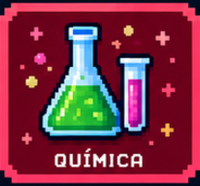
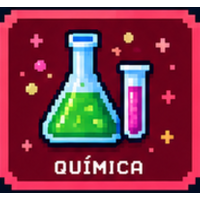
Agregar icono de cultura y normalizar iconos existentes a lienzos cuadrados de 200x200 píxeles; actualizar documentación de reglas de iconos.

diff --git a/admin.php b/admin.php
@@ -454,7 +454,6 @@ if (iconPickerDialog) {
         var form = actionInput.form;
         var trigger = form.querySelector('.admin-icon-picker-trigger');
         var selectedIconInput = form.querySelector('input[name="preview_image"]');
-        var saveButton = form.querySelector('button[type="submit"]');
 
         trigger.addEventListener('click', function() {
             activeIconForm = form;

diff --git a/docs/fases/fase_5.md b/docs/fases/fase_5.md
@@ -45,6 +45,9 @@ Los cambios se realizaron en `config/database.php`, `upload.php` y `admin.php`. 
 - Selector, vista previa y acción de guardado por juego en `admin.php`.
 - Galería visual de iconos para la edición, sin nombres de archivo visibles en las opciones.
 - Icono predefinido de deporte agregado en `images/game-icons/Deporte.png`.
+- Icono predefinido de cultura agregado en `images/game-icons/Cultura.png`.
+- Lienzos rasterizados normalizados a `200 × 200` y márgenes transparentes amplios recortados de Cultura y Deporte.
+- Reglas de tamaño y composición documentadas en `images/game-icons/README.md`.
 - Mensajes de confirmación o error para la edición del icono.
 - Esta documentación de cierre de fase.
 
@@ -68,6 +71,7 @@ Los cambios se realizaron en `config/database.php`, `upload.php` y `admin.php`. 
 
 4. Verificar y publicar los cambios.
    - Validar la sintaxis de `admin.php` con PHP.
+   - Normalizar los iconos rasterizados en un lienzo cuadrado común.
    - Revisar el diff y publicar los cambios en `main`.
 
 ### Recursos necesarios
@@ -100,6 +104,8 @@ Los cambios se realizaron en `config/database.php`, `upload.php` y `admin.php`. 
 - Un administrador puede escoger un icono disponible, ver su vista previa y guardarlo para un juego existente.
 - El selector de edición presenta los iconos como imágenes y no como nombres de archivo.
 - El icono de deporte está disponible entre las opciones predefinidas.
+- El icono de cultura está disponible entre las opciones predefinidas.
+- Todos los iconos rasterizados tienen lienzo de `200 × 200` píxeles y los dos nuevos iconos mantienen una escala visual comparable al recortar sus márgenes transparentes.
 - El servidor rechaza iconos que no estén en la carpeta de iconos disponibles.
 - La edición no cambia otros datos del juego.
 - La sintaxis de `admin.php` se valida correctamente y los commits de la fase están en `main`.
@@ -113,6 +119,9 @@ Los cambios se realizaron en `config/database.php`, `upload.php` y `admin.php`. 
 - Se agregó en el panel de administración una herramienta para cambiar el icono predefinido de cada juego ya registrado.
 - El editor muestra el icono actualmente asignado y permite seleccionar otro desde una galería visual.
 - Se incorporó el icono de deporte `images/game-icons/Deporte.png`.
+- Se incorporó el icono de cultura `images/game-icons/Cultura.png`.
+- Los iconos de Cultura, Deporte y Química se normalizaron a lienzos cuadrados de `200 × 200`; Cultura y Deporte se ajustaron recortando su margen transparente, sin deformar la ilustración.
+- Se documentó el estándar de dimensiones y composición de los iconos en `images/game-icons/README.md`.
 - Se validó la sintaxis de `admin.php` y los cambios se publicaron en GitHub en los commits `79a049a` y `762a9e4`.
 - La disponibilidad en el sitio depende de que el hosting despliegue la versión publicada.
 

diff --git a/images/game-icons/README.md b/images/game-icons/README.md
@@ -7,6 +7,9 @@ Esta carpeta se usa para almacenar los iconos predefinidos que aparecerán en el
 - Usar archivos con nombres claros y consistentes, por ejemplo: `astronomía.svg`, `matematicas.png`, `robotica.webp`.
 - Preferir formatos SVG o PNG para mejor escalabilidad y claridad visual.
 - Mantener un estilo visual uniforme entre todos los iconos.
+- Preparar los iconos rasterizados en un lienzo cuadrado de `200 × 200` píxeles.
+- Recortar márgenes transparentes excesivos y centrar la ilustración, conservando su proporción para evitar que se vea más pequeña o deformada que las demás.
+- Para SVG, usar un `viewBox` cuadrado y una composición visual equivalente.
 - El nombre del archivo debe coincidir con la opción que se muestre en el selector del formulario.
 
 ## Uso
